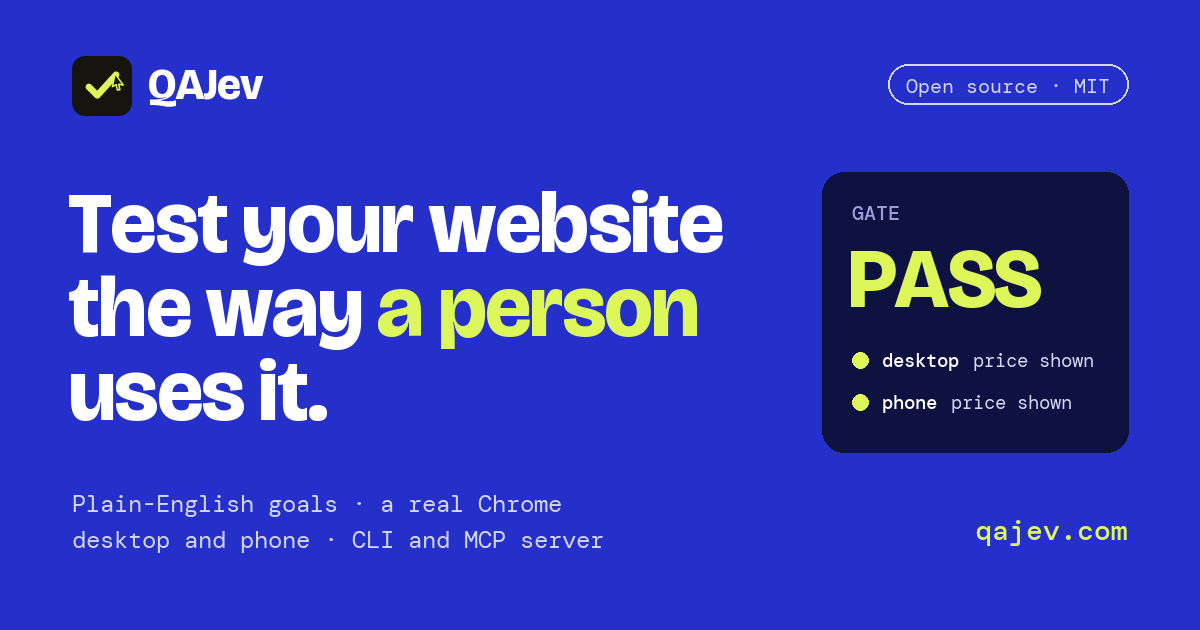
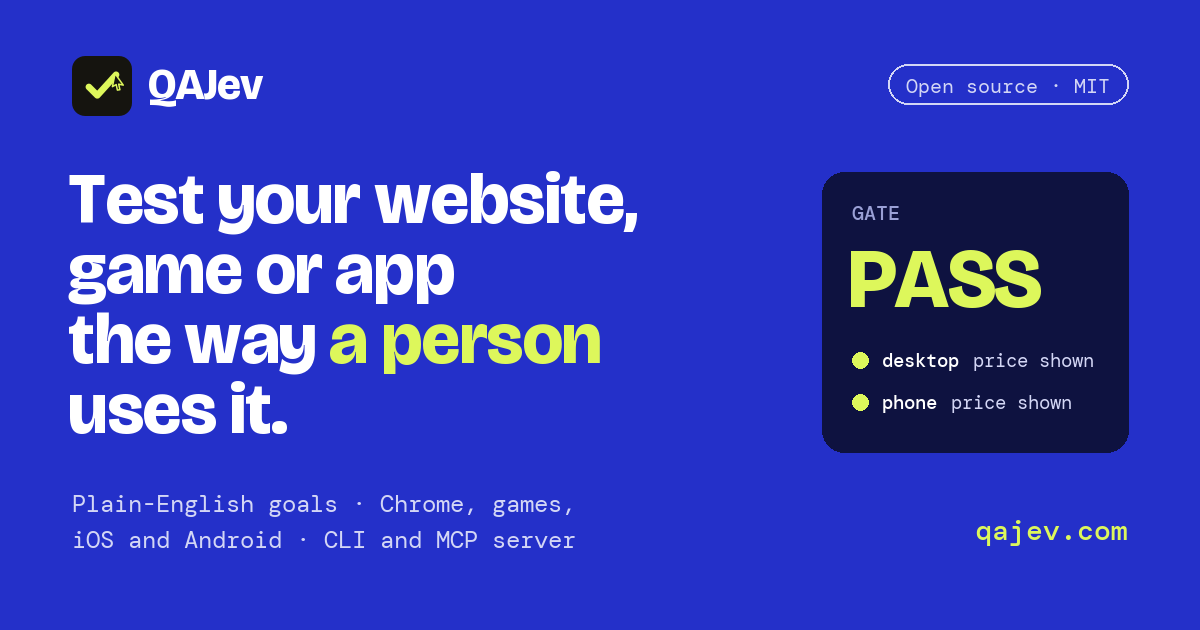
Site: the hero rolls through website, web app, game, iOS app and Android app
José: the site said only website, but QAJev also tests games and native apps. The title, meta, lede, footer, README tagline and social card now say so too. .media-allowlist lists the social card and icons that scripts/og_card.py writes.

Changed region(s): [[0.0617, 0.2714, 0.6167, 0.6937], [0.0617, 0.8444, 0.4933, 0.8746], [0.3083, 0.7841, 0.4625, 0.8143]]

diff --git a/site/index.html b/site/index.html
@@ -4,11 +4,11 @@
 <meta charset="utf-8">
 <script>document.documentElement.classList.add("js")</script>
 <meta name="viewport" content="width=device-width, initial-scale=1">
-<title>QAJev: test your website the way a person uses it</title>
-<meta name="description" content="Describe what a visitor should be able to do, in plain English. QAJev tries it in a real Chrome on desktop and on a phone, then checks the page. Open source.">
+<title>QAJev: test your website, game or app the way a person uses it</title>
+<meta name="description" content="Describe what a person should be able to do, in plain English. QAJev tries it on your website, game or iOS and Android app, then checks the result. Open source.">
 <meta property="og:site_name" content="QAJev">
-<meta property="og:title" content="QAJev: test your website the way a person uses it">
-<meta property="og:description" content="Describe a visitor&#39;s goal in plain English. QAJev tries it in a real Chrome on desktop and phone, then checks the page.">
+<meta property="og:title" content="QAJev: test your website, game or app the way a person uses it">
+<meta property="og:description" content="Describe a person&#39;s goal in plain English. QAJev tries it on your website, game or app, then checks the result.">
 <meta property="og:url" content="https://qajev.com/">
 <meta property="og:type" content="website">
 <meta property="og:locale" content="en_US">
@@ -156,6 +156,15 @@ section[id] { scroll-margin-top: 76px; }
 .pill { display: inline-flex; align-items: center; min-height: 34px; padding: 4px 14px; border-radius: 999px; border: 1.5px solid rgba(255, 255, 255, .5); font: 500 13px/1.3 var(--mono); }
 .hero h1 { margin-top: 22px; font-weight: 800; font-size: clamp(44px, 7.6vw, 118px); line-height: .94; letter-spacing: -0.04em; max-width: 14ch; text-wrap: balance; }
 .hero h1 em { font-style: normal; color: var(--hi); }
+/* the rolling word: every word shares one grid cell, so the heading never reflows. A word rises a short way as it
+   fades, never through the lines above and below (they overlap: the line height is under 1) */
+.roll { display: inline-grid; }
+.roll > span { grid-area: 1 / 1; opacity: 0; transform: translateY(.35em); transition: transform .55s cubic-bezier(.2, .9, .25, 1), opacity .35s; }
+.roll > span.on { opacity: 1; transform: none; }
+.roll > span.out { opacity: 0; transform: translateY(-.35em); }
+@media (prefers-reduced-motion: reduce) {
+  .roll > span, .roll > span.out { transform: none; transition: opacity .4s; }
+}
 .hero-row { display: flex; flex-wrap: wrap; gap: 28px 56px; margin-top: 36px; align-items: flex-end; }
 .hero-row > * { min-width: 0; }
 .lede { flex: 1 1 420px; font-size: clamp(18px, 1.6vw, 21px); line-height: 1.5; max-width: 30em; text-wrap: pretty; }
@@ -421,9 +430,9 @@ h2 { margin-top: 14px; font-weight: 800; font-size: clamp(36px, 4.6vw, 64px); li
 <section class="hero dark" id="top">
   <div class="wrap">
     <span class="pill">Open source · MIT · a CLI and an MCP server</span>
-    <h1>Test your website the way <em>a person</em> uses it.</h1>
+    <h1><span class="sr">Test your website, game or app the way a person uses it.</span><span aria-hidden="true">Test your <span class="roll" id="roll"><span class="on">website</span><span>web app</span><span>game</span><span>iOS app</span><span>Android app</span></span><br> the way <em>a person</em> uses it.</span></h1>
     <div class="hero-row">
-      <p class="lede">Describe what a visitor should be able to do, in plain English. <strong>Jev</strong>, a small and fast model, tries it in a real Chrome, on desktop and on a phone. QAJev then checks the page against what you expected, so a pass means the page really showed it.</p>
+      <p class="lede">Describe what a person should be able to do, in plain English. <strong>Jev</strong>, a small and fast model, tries it: in a real Chrome on desktop and on a phone, in your Godot or Electron game, or in your app on the iOS Simulator or an Android emulator. QAJev then checks the result against what you expected, so a pass means it really happened.</p>
       <div class="actions">
         <div class="install" role="group" aria-label="Install command">
           <code><span class="dollar">$ </span>uv tool install git+https://github.com/hanamorilabs/qajev</code>
@@ -781,7 +790,7 @@ qajev play android:com.example.app</div>
     <div class="foot-grid">
       <div>
         <a class="brand" href="#top"><svg viewBox="0 0 64 64" aria-hidden="true"><rect width="64" height="64" rx="14" fill="#0e1240"/><path d="M18 33 L27 42 L47 20" fill="none" stroke="#ddf75b" stroke-width="7" stroke-linecap="round" stroke-linejoin="round"/><path transform="translate(46,19) rotate(12)" d="M0 0 L0 14 L3.5 11 L6 16.5 L8.5 15.5 L6 10 L11 10 Z" fill="#0e1240" stroke="#ddf75b" stroke-width="1.6" stroke-linejoin="round"/></svg>QAJev</a>
-        <p class="tag">Test your website the way a person uses it. Jev comes from jev-ultrafast (MIT), by TypeSafe and Browser Use.</p>
+        <p class="tag">Test your website, game or app the way a person uses it. Jev comes from jev-ultrafast (MIT), by TypeSafe and Browser Use.</p>
       </div>
       <div>
         <h2>Learn</h2>
@@ -858,6 +867,28 @@ qajev play android:com.example.app</div>
       });
     });
   });
+
+  // hero: the word rolls through what QAJev tests, only while the hero is on screen and the tab is visible
+  const roll = $("roll");
+  if (roll && "IntersectionObserver" in window) {
+    const words = [...roll.children];
+    let at = 0, timer = null, seen = false;
+    const step = () => {
+      const cur = words[at];
+      at = (at + 1) % words.length;
+      cur.classList.replace("on", "out");
+      words[at].classList.add("on");
+      setTimeout(() => {  // back below the line, unseen, ready for its next turn
+        cur.classList.add("snap"); cur.classList.remove("out"); void cur.offsetWidth; cur.classList.remove("snap");
+      }, 700);
+    };
+    const run = () => {
+      if (seen && !document.hidden) timer = timer || setInterval(step, 2200);
+      else { clearInterval(timer); timer = null; }
+    };
+    new IntersectionObserver(([e]) => { seen = e.isIntersecting; run(); }).observe(roll);
+    document.addEventListener("visibilitychange", run);
+  }
 
   // reveal on scroll
   const reveals = document.querySelectorAll(".reveal");

diff --git a/scripts/og_card.py b/scripts/og_card.py
@@ -75,15 +75,16 @@ def card():
     d.rounded_rectangle((w - pad - pw, 64, w - pad, 104), radius=20, outline=PALE, width=2)
     d.text((w - pad - pw + 18, 73), pill, font=pf, fill=PALE)
     # headline, as on the page: "a person" in the highlight colour
-    hf, lh, y = sans(86), 84, 172
-    text(d, (pad - 4, y), "Test your website", hf, WHITE, -0.02)
-    x = text(d, (pad - 4, y + lh), "the way ", hf, WHITE, -0.02)
-    text(d, (x, y + lh), "a person", hf, HI, -0.02)
-    text(d, (pad - 4, y + 2 * lh), "uses it.", hf, WHITE, -0.02)
+    hf, lh, y = sans(72), 70, 156
+    text(d, (pad - 4, y), "Test your website,", hf, WHITE, -0.02)
+    text(d, (pad - 4, y + lh), "game or app", hf, WHITE, -0.02)
+    x = text(d, (pad - 4, y + 2 * lh), "the way ", hf, WHITE, -0.02)
+    text(d, (x, y + 2 * lh), "a person", hf, HI, -0.02)
+    text(d, (pad - 4, y + 3 * lh), "uses it.", hf, WHITE, -0.02)
     # what it is
     sf = mono(24)
-    d.text((pad, 488), "Plain-English goals · a real Chrome", font=sf, fill=PALE)
-    d.text((pad, 524), "desktop and phone · CLI and MCP server", font=sf, fill=PALE)
+    d.text((pad, 488), "Plain-English goals · Chrome, games,", font=sf, fill=PALE)
+    d.text((pad, 524), "iOS and Android · CLI and MCP server", font=sf, fill=PALE)
     # the verdict card, like the hero's gate
     cx0, cy0, cx1, cy1 = 822, 172, w - pad, 452
     d.rounded_rectangle((cx0, cy0, cx1, cy1), radius=22, fill=NAVY)

diff --git a/README.md b/README.md
@@ -10,9 +10,10 @@
 ![Python 3.12+](https://img.shields.io/badge/python-3.12%2B-blue)
 ![macOS and Linux](https://img.shields.io/badge/platform-macOS%20%7C%20Linux-lightgrey)
 
-**Test your website the way a person uses it.** Say what a visitor wants in plain words; **Jev**, a small, fast
-model, clicks through a real Chrome to do it; QAJev judges the result from the page itself and gives you a clear
-report. From the command line, or from any AI agent through MCP. **[qajev.com](https://qajev.com)**
+**Test your website, game or app the way a person uses it.** Say what a visitor wants in plain words; **Jev**, a
+small, fast model, clicks through a real Chrome to do it (or plays your game, or taps through your iOS or Android
+app); QAJev judges the result from the page itself and gives you a clear report. From the command line, or from any
+AI agent through MCP. **[qajev.com](https://qajev.com)**
 
 ```bash
 qajev check https://shop.example \
